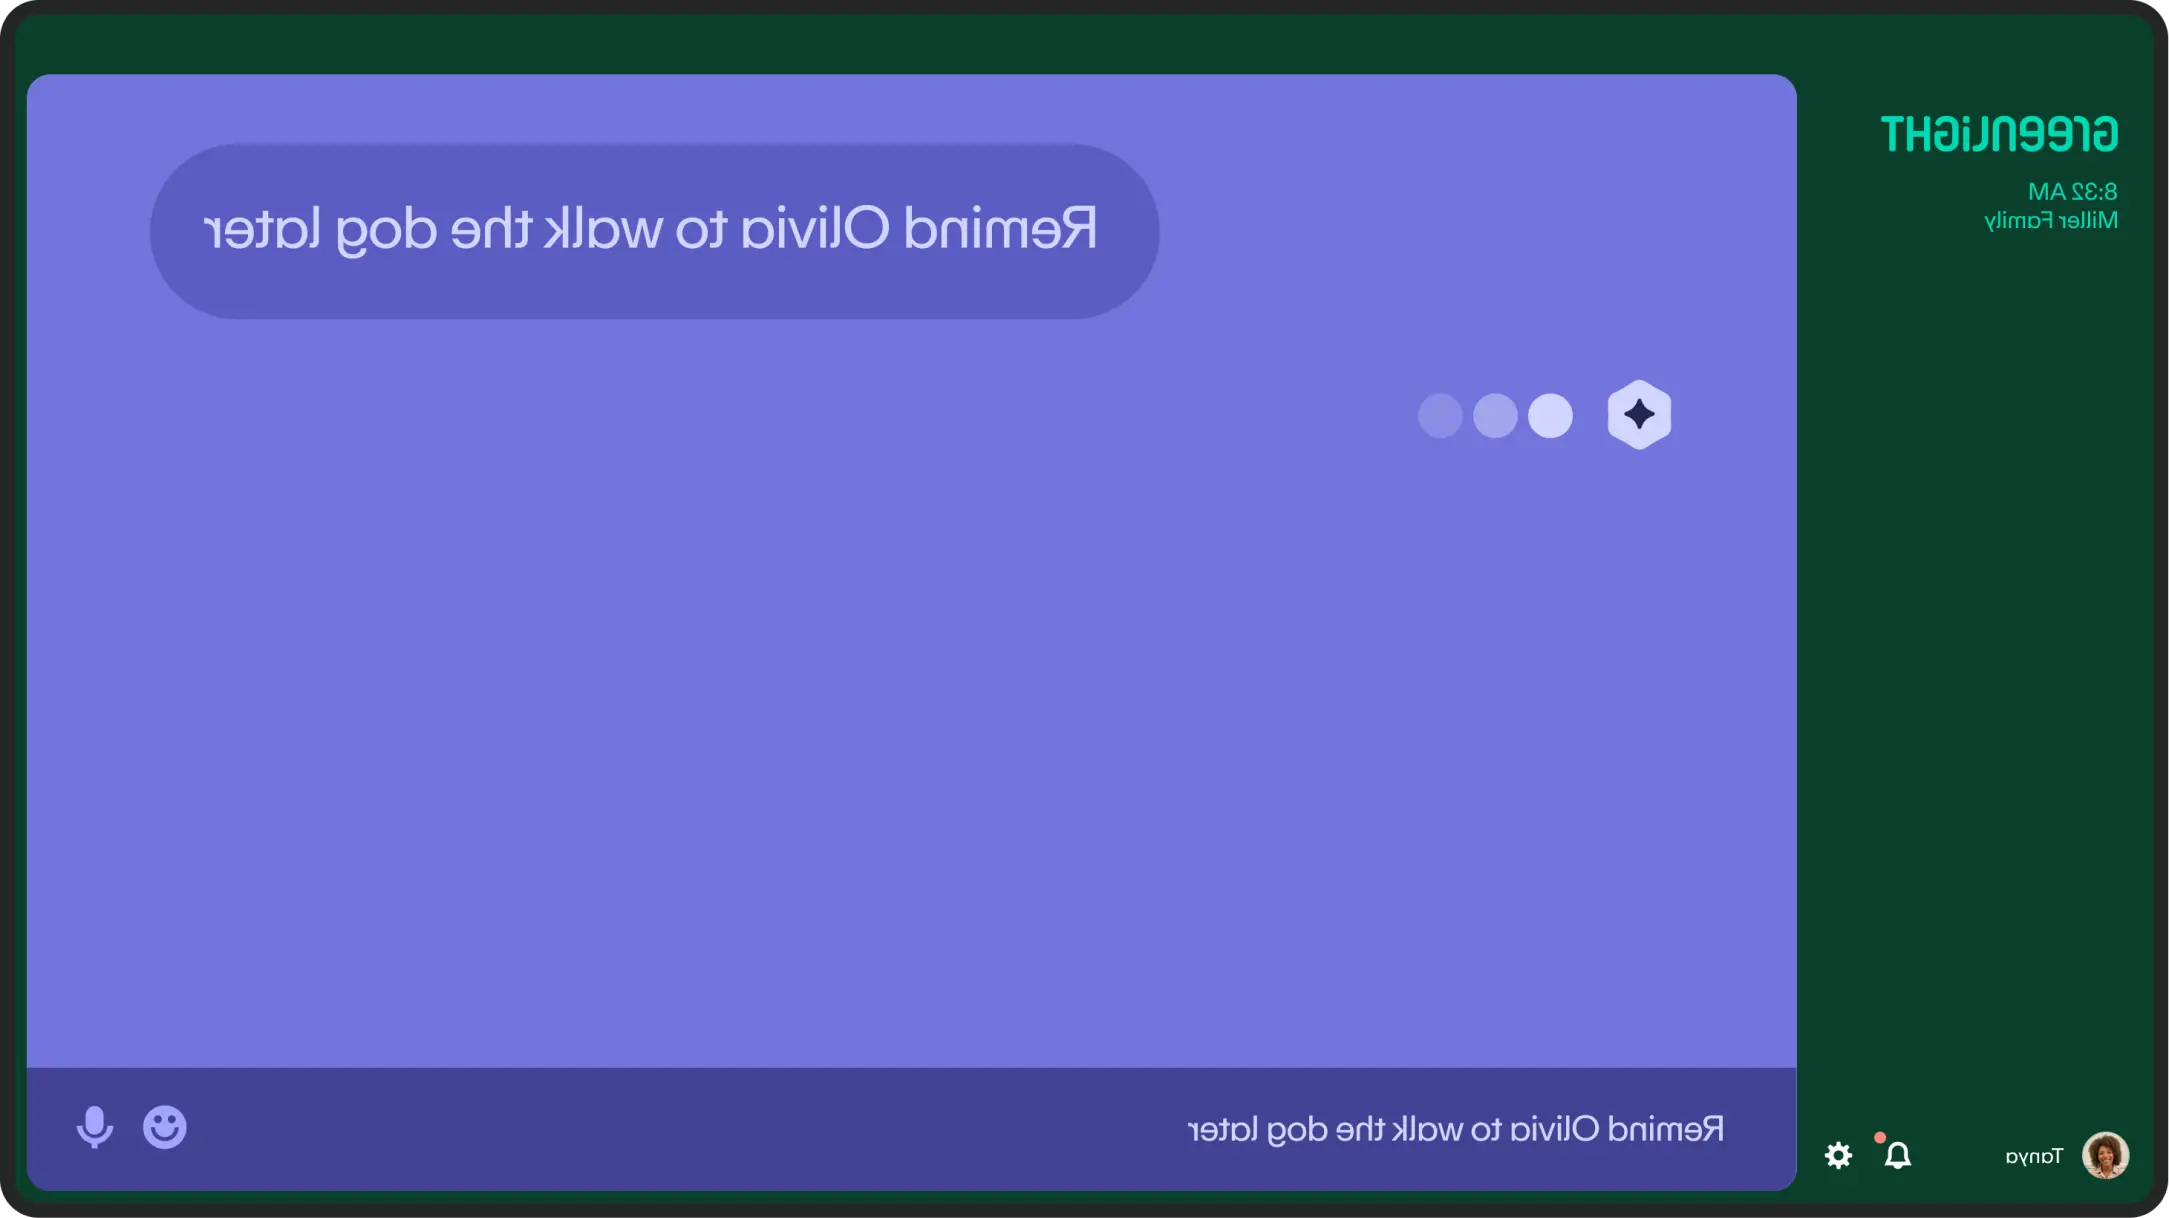
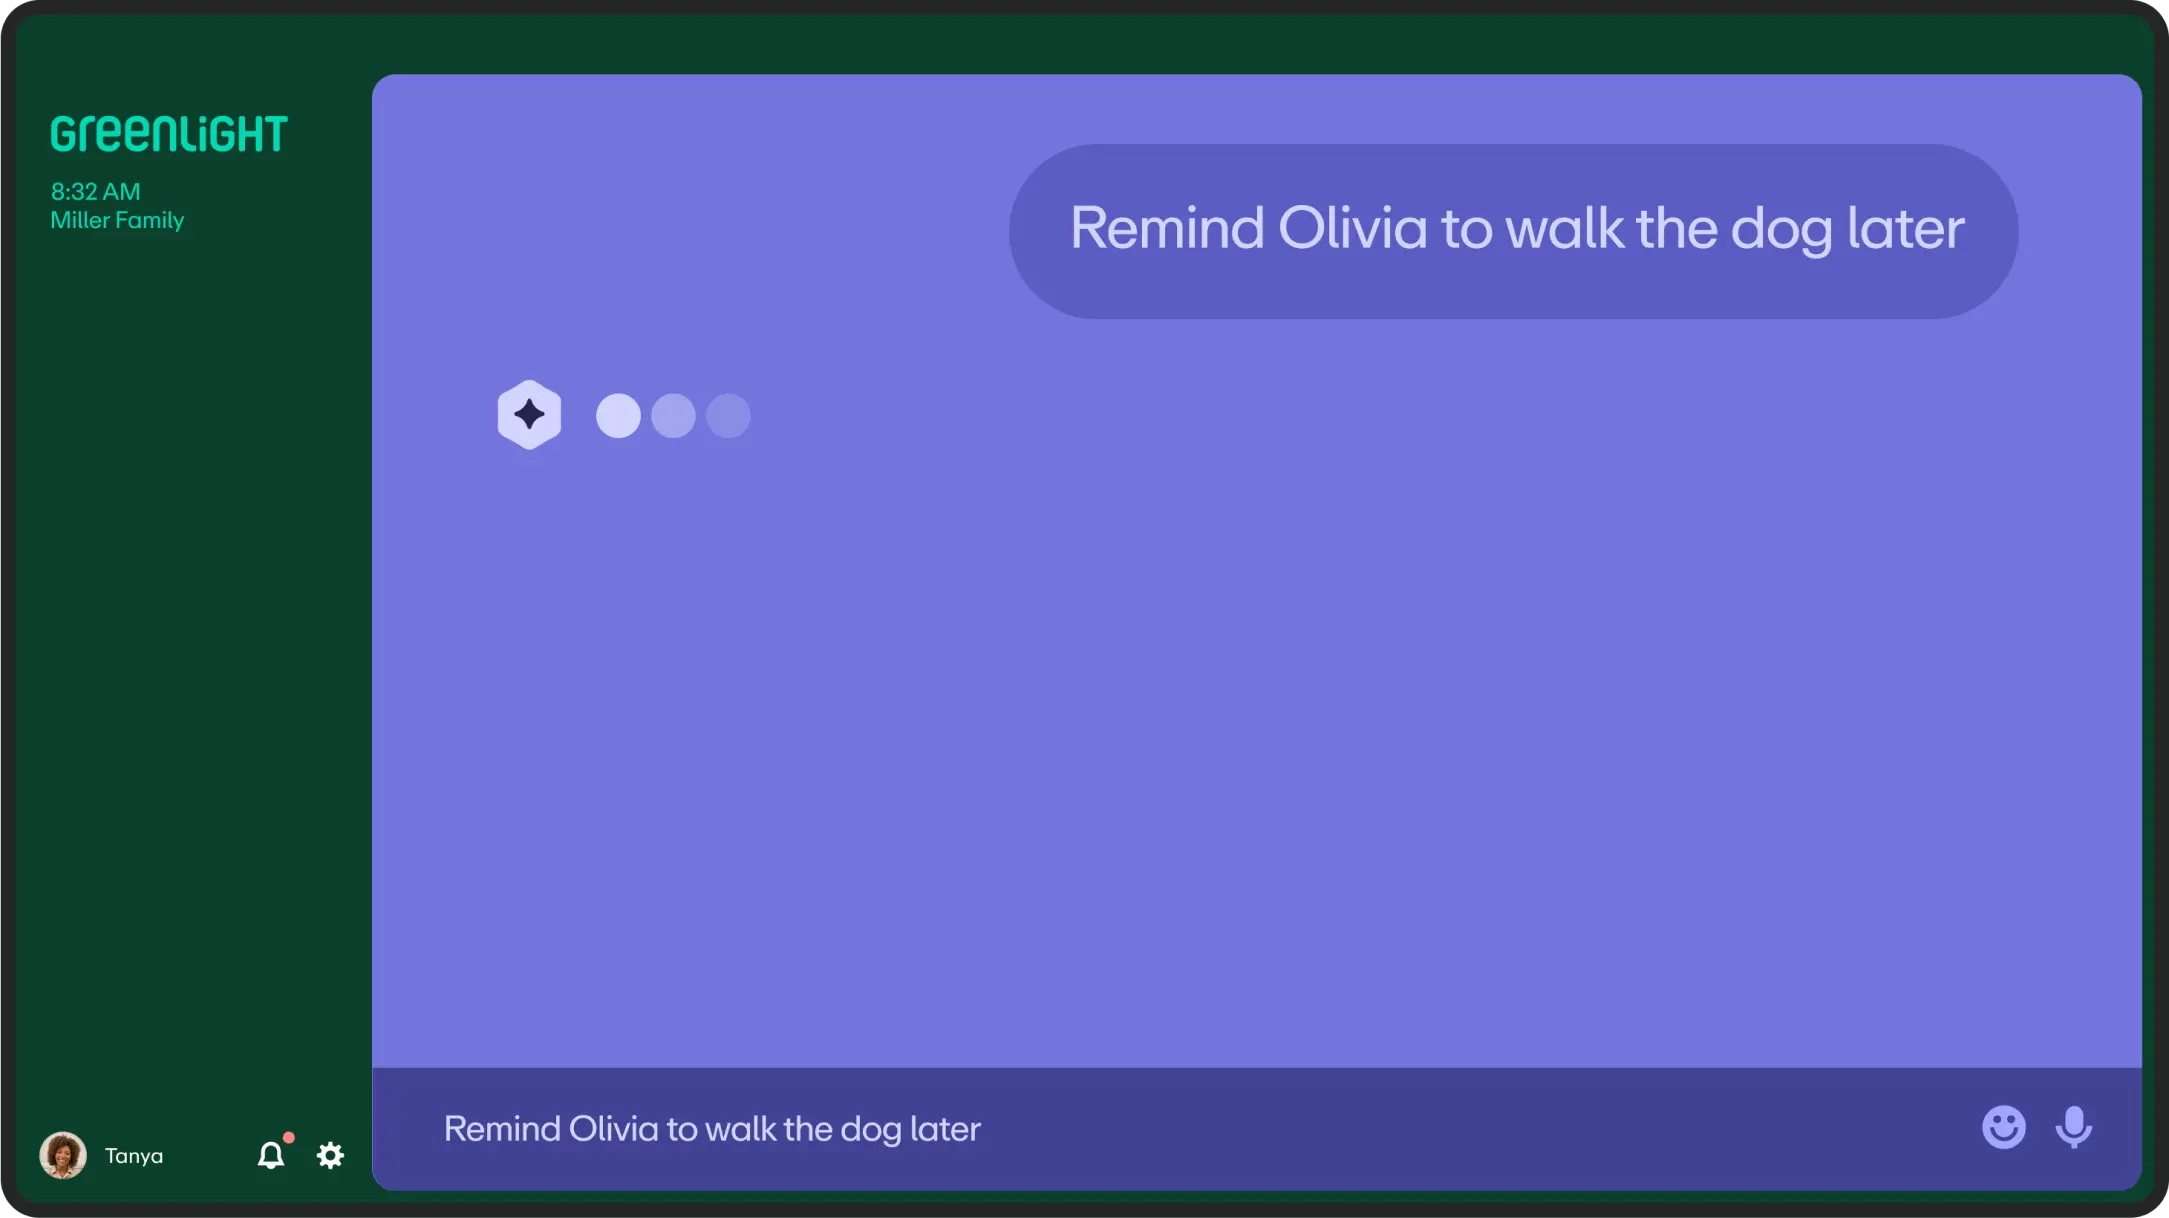
s56 round 2: ticker snappier (0.4s lead, right-fade only), fresh thinking export, its fix + Jake's hero meta

diff --git a/src/components/case/PitchDeck.tsx b/src/components/case/PitchDeck.tsx
@@ -22,7 +22,7 @@ const BASE = '/case/family-hub/pitch'
 const SLIDES: Array<[file: string, w: number, h: number, label: string, alt: string]> = [
   ['01-ingredients', 1819, 642, '', 'Deck intro: “Greenlight helps your family plan, stay organized, and connected,” with the family, their needs, and the feature list'],
   ['02-mobile', 608, 609, 'Mobile view can provide a helpful home tab widget with the ability to dive into a more detailed planning view', 'The mobile companion, a home-screen widget plus a detailed planning view, shown on two phones'],
-  ['03-ambient', 1085, 609, 'Home display is in it’s morning state, providing just what the family needs at a glance to get their day started (optimize for distance viewing/glanceability)', 'The home display in its morning ambient state: just what the family needs at a glance to start the day'],
+  ['03-ambient', 1085, 609, 'Home display is in its morning state, providing just what the family needs at a glance to get their day started (optimize for distance viewing/glanceability)', 'The home display in its morning ambient state: just what the family needs at a glance to start the day'],
   ['04-day', 1085, 609, 'Happening Now / Day View', 'Happening Now, the day view'],
   ['05-week', 1085, 609, 'This Week', 'This Week, the week view'],
   ['06-month', 1085, 609, 'This Month', 'This Month, the full month view'],

diff --git a/src/components/case/case.module.css b/src/components/case/case.module.css
@@ -260,10 +260,10 @@
 }
 
 .capTicker[data-fade] {
+  /* right edge only — the left stays hard (Jake's s56 ruling) */
   mask-image: linear-gradient(
     90deg,
-    transparent 0,
-    #000 18px,
+    #000 0,
     #000 calc(100% - 18px),
     transparent 100%
   );
@@ -275,15 +275,15 @@
 
 .capTicker[data-fade] .capTickerLine {
   /* linear on purpose — a ticker crawl, not a spring gesture */
-  animation: tickerWalk var(--tick-dur) linear 1.2s infinite alternate;
+  animation: tickerWalk var(--tick-dur) linear 0.4s infinite alternate;
 }
 
 @keyframes tickerWalk {
   0%,
-  12% {
+  4% {
     transform: translateX(0);
   }
-  88%,
+  92%,
   100% {
     transform: translateX(var(--tick-shift));
   }
